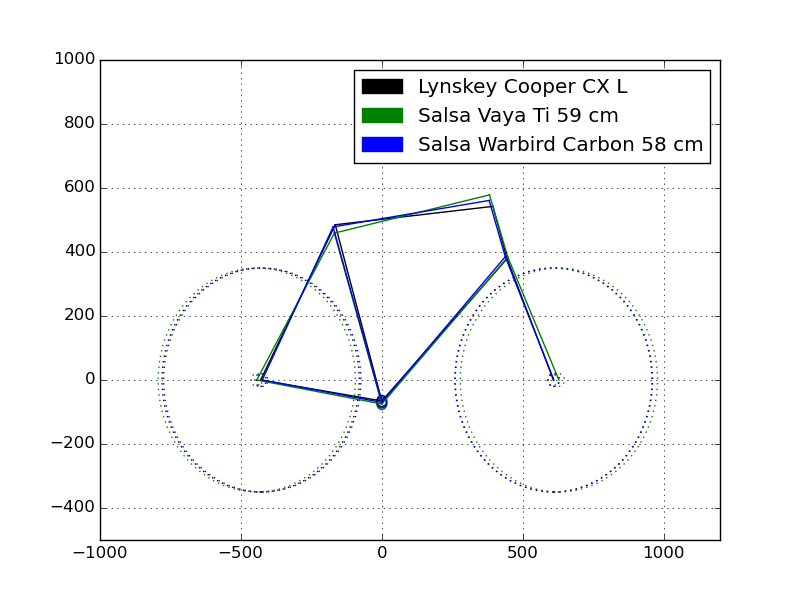
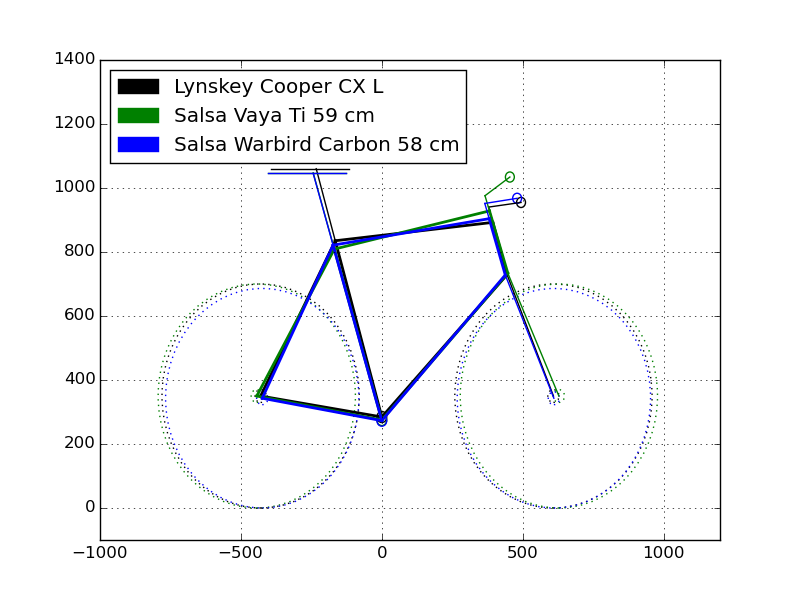
- Fix license - Add Rider

diff --git a/pybikefit.py b/pybikefit.py
@@ -1,6 +1,6 @@
 #!/usr/bin/env python
 
-# Copyright [current year] the Melange authors.
+# Copyright 2018 the pybikefit authors.
 #
 # Licensed under the Apache License, Version 2.0 (the "License");
 # you may not use this file except in compliance with the License.
@@ -39,6 +39,11 @@ def init_args():
     parser.add_argument("-j", "--json",
                         help="Path to a valid json bike file. Use multiple times to compare multiple bikes",
                         action="append")
+
+    parser.add_argument("-r", "--rider",
+                        help="Path to a valid json rider file.",
+                        type=str)
+
     return parser.parse_args()
 
 
@@ -66,6 +71,25 @@ def get_distance_between_coords(x1, y1, x2, y2):
     return math.sqrt(math.pow(x2 - x1, 2) + math.pow(y2 - y1, 2))
 
 
+class Rider(object):
+    """ Rider specific dimensions.
+    """
+
+    def __init__(self,
+                 saddle_height=810,
+                 saddle_length=280,
+                 saddle_set_back=22):
+        self.saddle_height = saddle_height
+        self.saddle_length = saddle_length
+        self.saddle_set_back = saddle_set_back
+
+    def print_specs(self):
+        print("Rider:")
+        print("\tsaddle_height:\t%s" % self.saddle_height)
+        print("\tsaddle_length:\t%s" % self.saddle_length)
+        print("\tsaddle_set_back:\t%s" % self.saddle_set_back)
+
+
 class Bicycle(object):
     """ A bicycle defined by dimensional characteristics. Generates output
         to matplotlib.
@@ -90,7 +114,8 @@ class Bicycle(object):
                  stem_angle=0,
                  stem_length=50,
                  wheelbase=1072.6,
-                 wheel_diameter=700.0
+                 wheel_diameter=700.0,
+                 rider=None
                  ):
         # public members
         self.color_str = color_str.encode()
@@ -123,6 +148,16 @@ class Bicycle(object):
         self._stem_angle = float(stem_angle)
         self._stem_length = float(stem_length)
 
+        # Saddle
+        self._saddle = None
+        if rider:
+            self._saddle = self.Saddle(saddle_height=rider.saddle_height,
+                                       saddle_length=rider.saddle_length,
+                                       saddle_set_back=rider.saddle_set_back,
+                                       bb_coords=self._bb.get_coord(),
+                                       seat_tube_angle=self._seat_tube_angle,
+                                       color_str=self.color_str)
+
     def print_specs(self):
         print("Info:")
         print("\tname:\t%s" % self.name)
@@ -138,6 +173,8 @@ class Bicycle(object):
     def draw(self):
         self._front_wheel.draw()
         self._rear_wheel.draw()
+        if self._saddle:
+            self._saddle.draw()
 
         self._bb.draw(self.color_str)
         self._chainstay_draw()
@@ -199,6 +236,42 @@ class Bicycle(object):
         def print_specs(self):
             print("Wheel\n\t diameter:\t%.2f" % self._diameter)
 
+    class Saddle(object):
+
+        def __init__(self,
+                     saddle_height,
+                     saddle_length,
+                     saddle_set_back,
+                     bb_coords,
+                     seat_tube_angle,
+                     color_str='b'):
+            self._saddle_height = saddle_height
+            self._saddle_length = saddle_length
+            self._saddle_set_back = saddle_set_back
+            self._seat_tube_angle = seat_tube_angle
+            self._bb_coords = bb_coords
+            self._color_str = color_str
+
+        def draw(self):
+            # draw seat tube
+            x, y = self._seat_tube_coords()
+            ax.plot(x, y, self._color_str)
+
+            # draw saddle
+            seat_x = [x[1] - self._saddle_length / 2 - self._saddle_set_back,
+                      x[1] + self._saddle_length / 2 - self._saddle_set_back]
+            seat_y = [y[1], y[1]]
+            ax.plot(seat_x, seat_y, self._color_str)
+
+        def print_specs(self):
+            print("Saddle")
+            print("\tsaddle height:\t%.2f" % self._saddle_height)
+            print("\tsaddle length:\t%.2f" % self._saddle_length)
+
+        def _seat_tube_coords(self):
+            return get_vector_coords(self._bb_coords[0], self._bb_coords[1],
+                                     self._saddle_height, self._seat_tube_angle)
+
     def _chainstay_draw(self):
         rear_hub_x, rear_hub_y = self._rear_hub_coords()
         bb_x, bb_y = self._bb.get_coord()
@@ -239,12 +312,12 @@ class Bicycle(object):
 
         # find front hub
         rear_hub_x, rear_hub_y = self._rear_hub_coords()
-        head_tube_y_origin = rear_hub_x + self._wheelbase - x_offset
+        head_tube_x_origin = rear_hub_x + self._wheelbase - x_offset
 
         # find head tube bottom
         head_tube_bottom_x, head_tube_bottom_y = get_vector_coords(
-            head_tube_y_origin,
-            self._bb.get_coord()[1],
+            head_tube_x_origin,
+            rear_hub_y,
             self._fork_length,
             self._head_tube_angle)
 
@@ -357,9 +430,36 @@ def get_color(n):
     return colors[n]
 
 
-def build_bike(json_bike_file):
+def get_rider(json_rider_file):
+    """ Open JSON file and build Rider object
+    :param json_rider_file:  JSON file path
+    :return: Rider object
+    """
+    try:
+        with open(json_rider_file) as rider_file:
+            data = json.load(rider_file)
+
+            try:
+                return Rider(
+                    saddle_height=data["rider"]["saddle_height"],
+                    saddle_length=data["rider"]["saddle_length"],
+                    saddle_set_back=data["rider"]["saddle_set_back"]
+                )
+            except KeyError as e:
+                print("Error reading Rider JSON")
+                print("KeyError: File does not contain %s" % e)
+                raise KeyError
+    except IOError as e:
+        print("Error reading Rider JSON")
+        print("%s" % e)
+        raise e
+    return Rider()
+
+
+def build_bike(json_bike_file, rider=None):
     """ Open JSON file and build Bicycle object
     :param json_bike_file:  JSON file path
+    :param rider: a Rider object
     :return: Bicycle object
     """
     try:
@@ -383,7 +483,8 @@ def build_bike(json_bike_file):
                 stem_angle=data["bicycle"]["stem_angle"],
                 stem_length=data["bicycle"]["stem_length"],
                 wheelbase=data["bicycle"]["wheelbase"],
-                wheel_diameter=data["bicycle"]["wheel_diameter"]
+                wheel_diameter=data["bicycle"]["wheel_diameter"],
+                rider=rider
             )
         except KeyError as e:
             print("KeyError: File does not contain %s" % e)
@@ -400,11 +501,16 @@ if __name__ == "__main__":
 
     args = init_args()
 
+    rider = None
+    if args.rider:
+        rider = get_rider(args.rider)
+        rider.print_specs()
+
     bikes = []
     if args.json:
         # read JSON files
         for b in args.json:
-            bikes.append(build_bike(b))
+            bikes.append(build_bike(b, rider))
     else:
         # Make an example bike
         bikes.append(Bicycle())

diff --git a/README.md b/README.md
@@ -1,14 +1,16 @@
 # py-bike-fit
 Python script used to visually compare bicycle geometries defined in JSON files and plotted in matplotlib.
 
-Bicycle are defined in JSON format according to the examples in the 'example-bikes' directory. Multiple bikes can be
+Bicycles are defined in JSON format according to the examples in the 'example-bikes' directory. Multiple bikes can be
 compared by supplying multiple JSON files as shown below.
+
+A Rider is defined in JSON format according to the examples 'example-bikes/rider.json'.
 
 ### Dependencies
 You must install [matplotlib](http://matplotlib.org/users/installing.html) to use this script.
 
 ### Usage
-    $ ./pybikefit.py -j example_bikes/cooper.json -j example_bikes/vaya_ti.json -j example_bikes/warbird.json
+    $ ./pybikefit.py -r example_bikes/rider.json -j example_bikes/cooper.json -j example_bikes/vaya_ti.json -j example_bikes/warbird.json
 
 ### Example Output
 ![Alt text](/example_bikes/example_bikes.png?raw=true "Example Bikes")
